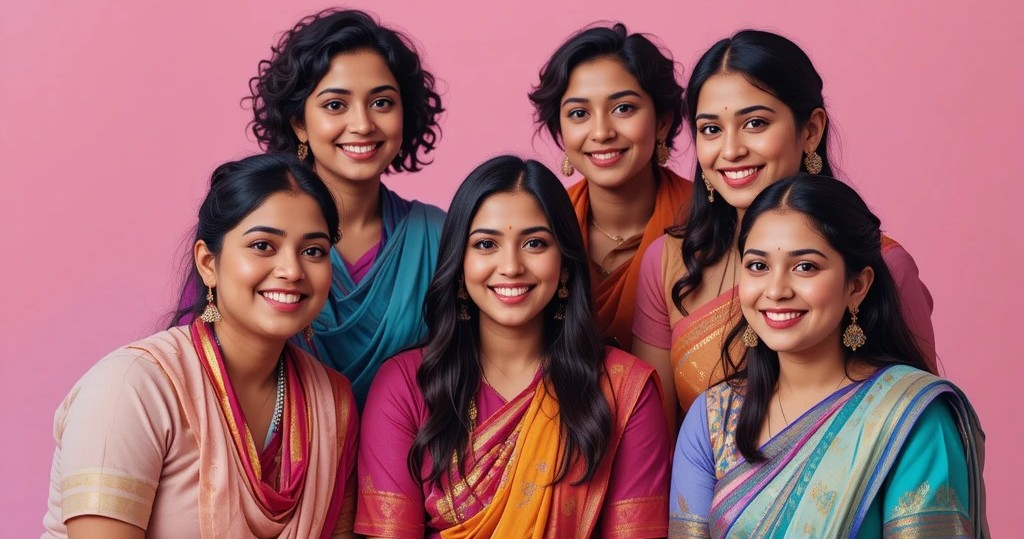
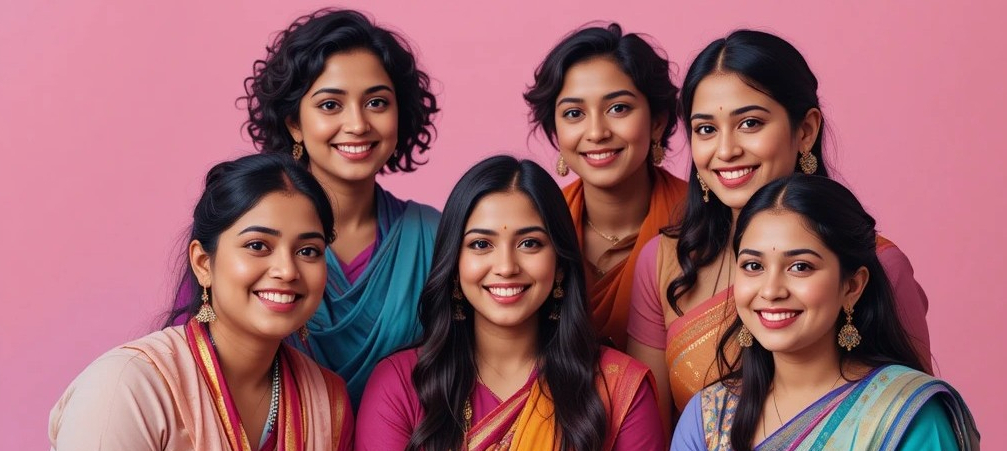
image-slider

diff --git a/src/components/bharat-self-care-team/images-slide-bharat/page.tsx b/src/components/bharat-self-care-team/images-slide-bharat/page.tsx
@@ -19,10 +19,7 @@ const Human_safety_program_slide = () => {
                 //     src: image1,
                 //     alt: "Image 1"
                 // },
-                {
-                    src: image2,
-                    alt: "Image 2"
-                },
+                
                 {
                     src: image3,
                     alt: "Image 3"
@@ -42,6 +39,10 @@ const Human_safety_program_slide = () => {
                 {
                     src: image7,
                     alt: "Image 7"
+                },
+                {
+                    src: image2,
+                    alt: "Image 2"
                 },
                 // {
                 //     src: image8,

diff --git a/src/components/common/slide-bar/page.tsx b/src/components/common/slide-bar/page.tsx
@@ -71,7 +71,7 @@ const ImageSlideShow: React.FC<ImageSlideShowProps> = ({
   const showControls = images.length > 1;
 
   return (
-    <div className="relative w-full h-[500px] group">
+    <div className="relative w-full h-[600px] group">
       {/* Main Image */}
       <div className="relative h-full overflow-hidden">
         {images.map((image, index) => (
